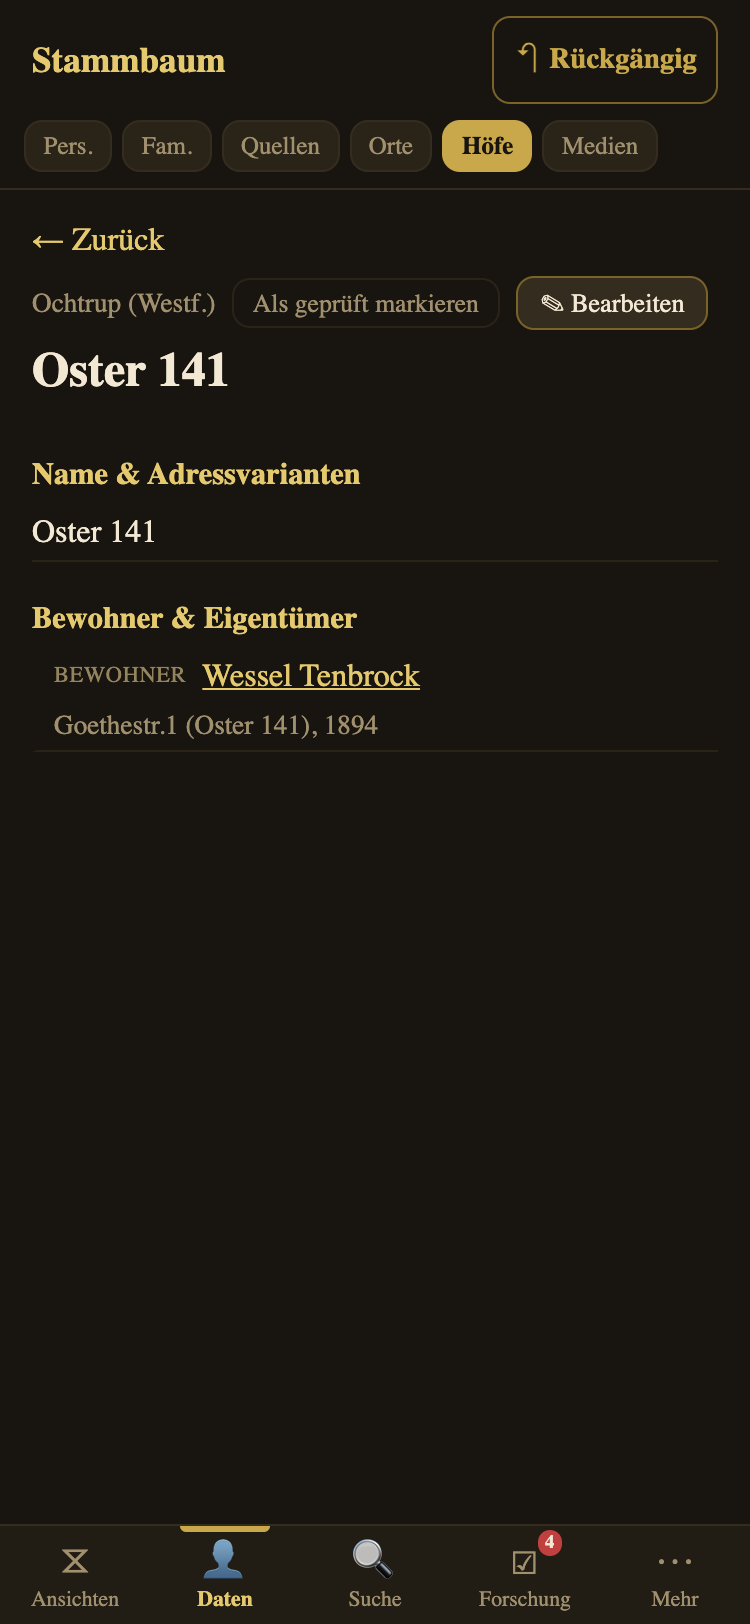
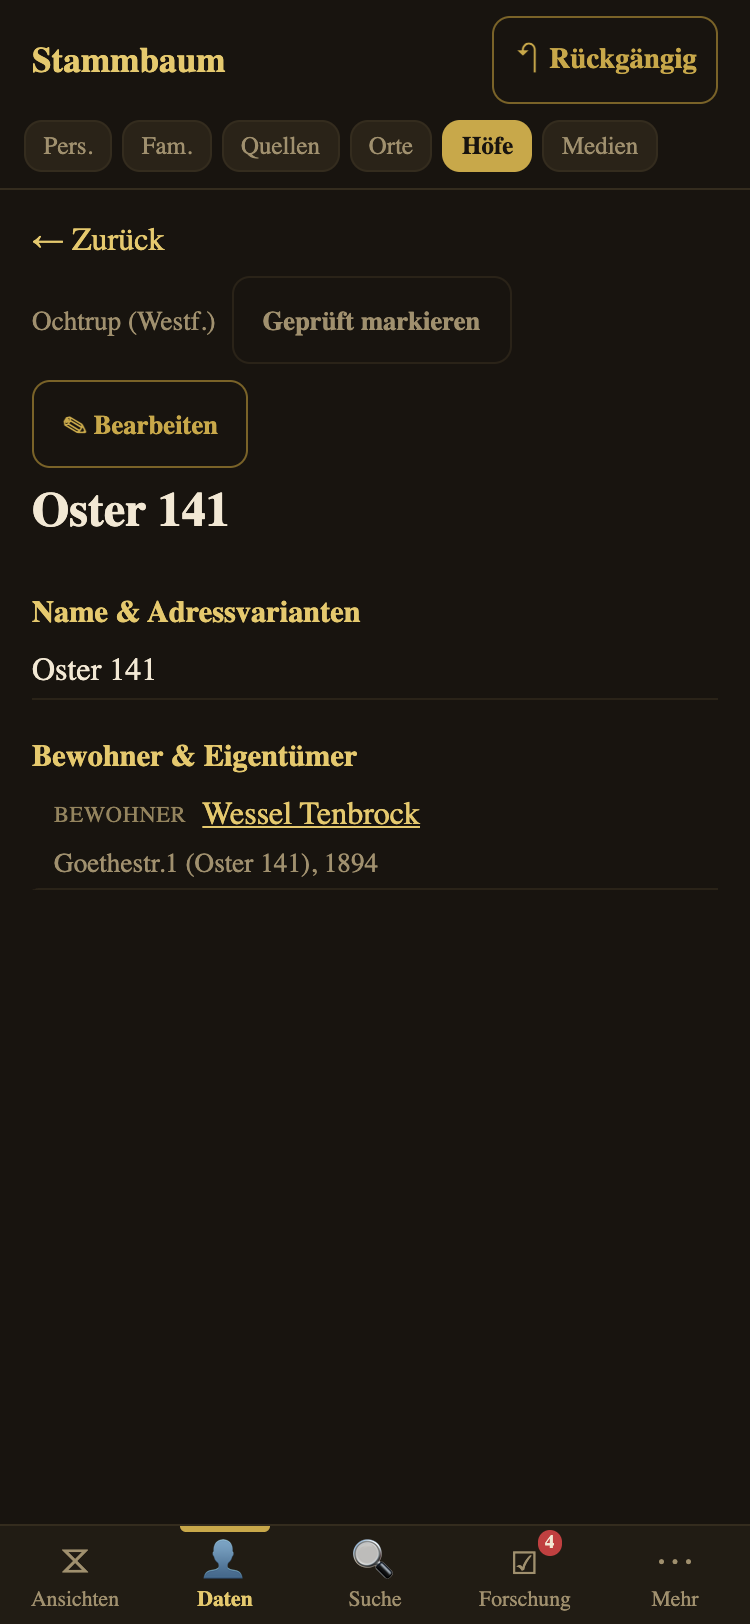
docs(handbuch): 9.11 — Knopf-Umbenennung nachgezogen, Aufnahmen nach BL-273 neu
BL-273 (`4e25faa`) hat die Bearbeitungs-Knöpfe auf `.stb-btn` gehoben und
dabei einen Wortlaut geändert, den das Handbuch zitiert: „Als geprüft
markieren" heißt jetzt „Geprüft markieren" (gekürzt, weil die Kopfzeile
mit 44px-Knöpfen bei 375px sonst zweizeilig bricht). Kapitel 7 zieht
Überschrift und Arbeitsschritt nach; die Beschreibung des Ein-Zustands
nennt jetzt zusätzlich, dass das Datum AUF dem Knopf steht und nicht im
Tooltip — auf einem Touchgerät gäbe es den nicht.

16 Aufnahmen neu: betroffen sind genau die Detailansichten mit
Bearbeitungs-Knöpfen (Person, Ort, Hof, Quelle, Archiv, Medium,
Ereignis-Editor, Formulare), nicht Listen, Diagramme oder Karte. Der
Ort-Steckbrief zeigt jetzt „Geprüft markieren" und „✎ Bearbeiten" in
einer Zeile auf voller Trefferfläche, das Medium-Detail die neue
danger-Variante von „Medium löschen".

Changelog aus zwei Commits (BL-273 und `ff88970` — die Sie-Form des
Rundgangs, die durch die Reihenfolge der beiden vorigen Commits sauber
in dieses Fenster fällt).

Stand-Datum bleibt 2026-08-01: Text und Aufnahmen sind an diesem Tag
entstanden, der Bau lief 35 Sekunden nach Mitternacht.

diff --git a/app/public/HANDBUCH.html b/app/public/HANDBUCH.html
@@ -185,7 +185,7 @@
   <div class="tree-icon">🌳</div>
   <h1>STAMMBAUM</h1>
   <div class="subtitle">Genealogie-Editor für iPhone, iPad und Computer</div>
-  <div class="version">Benutzerhandbuch · Version 9.10 · Stand 2026-08-01</div>
+  <div class="version">Benutzerhandbuch · Version 9.11 · Stand 2026-08-01</div>
   <div class="tagline">
     Eine App, die Ihre Familienforschung verwaltet — ganz ohne Server, ohne Konto,
     offline nutzbar. Sie öffnet und schreibt GEDCOM- und GRAMPS-Dateien und bewahrt
@@ -1030,14 +1030,15 @@
       verspräche, wäre eine Unwahrheit. Wollen Sie so etwas zurücknehmen, ist
       <strong>↶ Rückgängig</strong> das richtige Werkzeug.
     </p>
-    <h3>„Als geprüft markieren"</h3>
+    <h3>„Geprüft markieren"</h3>
     <p>
       Im Kopf des Steckbriefs — neben <strong>✎ Bearbeiten</strong>, nicht darin — sitzt
       ein Schalter, der eine Frage beantwortet, die die Daten selbst nicht beantworten
       können: <em>Hat hier schon einmal ein Mensch hingesehen?</em> Ein Ort, an dem nichts zu ergänzen war, sieht sonst genauso
       unbearbeitet aus wie einer, den nie jemand angefasst hat. Ein Tipp macht daraus
-      <strong>„✓ Geprüft &lt;Datum&gt;"</strong>; ein weiterer nimmt die Markierung
-      zurück. Sie wird <em>nie</em> automatisch gesetzt — Bearbeiten allein genügt nicht
+      <strong>„✓ Geprüft"</strong> samt Datum; ein weiterer nimmt die Markierung
+      zurück. Das Datum steht auf dem Knopf und nicht nur im Tooltip — auf einem
+      Touchgerät gäbe es einen Tooltip gar nicht. Sie wird <em>nie</em> automatisch gesetzt — Bearbeiten allein genügt nicht
       — und bedeutet „angesehen und für richtig befunden", nicht „vollständig".
       Denselben Schalter tragen die <a href="#k8">Höfe</a>.
     </p>
@@ -1138,8 +1139,8 @@
         Anzeige aktualisiert sich sofort.</li>
     <li><strong>Prüfen:</strong> die Orts-Review-Liste abarbeiten und den Filter
         <em>„Ohne Bezug"</em> nutzen, um verwaiste Orte aufzuräumen.</li>
-    <li><strong>Abhaken:</strong> jeden angesehenen Ort <strong>als geprüft
-        markieren</strong> — auch den, an dem nichts zu tun war. Erst dadurch wird aus
+    <li><strong>Abhaken:</strong> jeden angesehenen Ort mit <strong>„Geprüft
+        markieren"</strong> abhaken — auch den, an dem nichts zu tun war. Erst dadurch wird aus
         „unbearbeitet" die Auskunft „schon angesehen", und der nächste Durchgang kann
         dort ansetzen, wo wirklich noch niemand war.</li>
   </ol>
@@ -2512,7 +2513,7 @@
 </p>
 
 <footer>
-  Stammbaum · Benutzerhandbuch Version 9.10 · Stand 2026-08-01<br>
+  Stammbaum · Benutzerhandbuch Version 9.11 · Stand 2026-08-01<br>
   Abbildungen aus der laufenden App mit einem Beispiel-Stammbaum.
 </footer>
 

diff --git a/app-orte/public/HANDBUCH-ORTE.html b/app-orte/public/HANDBUCH-ORTE.html
@@ -186,7 +186,7 @@
 <header class="cover">
   <h1>Orte-Editor — Handbuch</h1>
   <p>Ein Editor für orte.json, das Ortsverzeichnis über Stammbaum-Dateien hinweg</p>
-  <p class="stamp">Version 9.10 · Stand 2026-08-01</p>
+  <p class="stamp">Version 9.11 · Stand 2026-08-01</p>
 </header>
 
 <nav id="toc">
@@ -463,14 +463,15 @@
       verspräche, wäre eine Unwahrheit. Wollen Sie so etwas zurücknehmen, ist
       <strong>↶ Rückgängig</strong> das richtige Werkzeug.
     </p>
-    <h3>„Als geprüft markieren"</h3>
+    <h3>„Geprüft markieren"</h3>
     <p>
       Im Kopf des Steckbriefs — neben <strong>✎ Bearbeiten</strong>, nicht darin — sitzt
       ein Schalter, der eine Frage beantwortet, die die Daten selbst nicht beantworten
       können: <em>Hat hier schon einmal ein Mensch hingesehen?</em> Ein Ort, an dem nichts zu ergänzen war, sieht sonst genauso
       unbearbeitet aus wie einer, den nie jemand angefasst hat. Ein Tipp macht daraus
-      <strong>„✓ Geprüft &lt;Datum&gt;"</strong>; ein weiterer nimmt die Markierung
-      zurück. Sie wird <em>nie</em> automatisch gesetzt — Bearbeiten allein genügt nicht
+      <strong>„✓ Geprüft"</strong> samt Datum; ein weiterer nimmt die Markierung
+      zurück. Das Datum steht auf dem Knopf und nicht nur im Tooltip — auf einem
+      Touchgerät gäbe es einen Tooltip gar nicht. Sie wird <em>nie</em> automatisch gesetzt — Bearbeiten allein genügt nicht
       — und bedeutet „angesehen und für richtig befunden", nicht „vollständig".
       Denselben Schalter tragen die <a href="#k8">Höfe</a>.
     </p>
@@ -565,8 +566,8 @@
         Anzeige aktualisiert sich sofort.</li>
     <li><strong>Prüfen:</strong> die Orts-Review-Liste abarbeiten und den Filter
         <em>„Ohne Bezug"</em> nutzen, um verwaiste Orte aufzuräumen.</li>
-    <li><strong>Abhaken:</strong> jeden angesehenen Ort <strong>als geprüft
-        markieren</strong> — auch den, an dem nichts zu tun war. Erst dadurch wird aus
+    <li><strong>Abhaken:</strong> jeden angesehenen Ort mit <strong>„Geprüft
+        markieren"</strong> abhaken — auch den, an dem nichts zu tun war. Erst dadurch wird aus
         „unbearbeitet" die Auskunft „schon angesehen", und der nächste Durchgang kann
         dort ansetzen, wo wirklich noch niemand war.</li>
   </ol>

diff --git a/HANDBUCH-CHANGELOG.md b/HANDBUCH-CHANGELOG.md
@@ -22,6 +22,15 @@ Personennamen (siehe [tools/handbuch/README.md](tools/handbuch/README.md)).
 
 ---
 
+## [9.11] — 2026-08-01
+
+_Automatisch aus den Code-Commits seit dem letzten Handbuch-Bau (`ebde29c`…HEAD) erzeugt._
+
+- feat(ui): BL-273 — beschriftete Bearbeitungs-Knöpfe kommen aus `.stb-btn` (INV-UI-4) (`4e25faa`)
+- fix(ui): Der Rundgang duzte als einzige Fläche der App (`ff88970`)
+
+---
+
 ## [9.10] — 2026-08-01
 
 _Automatisch aus den Code-Commits seit dem letzten Handbuch-Bau (`e246e0a`…HEAD) erzeugt._
